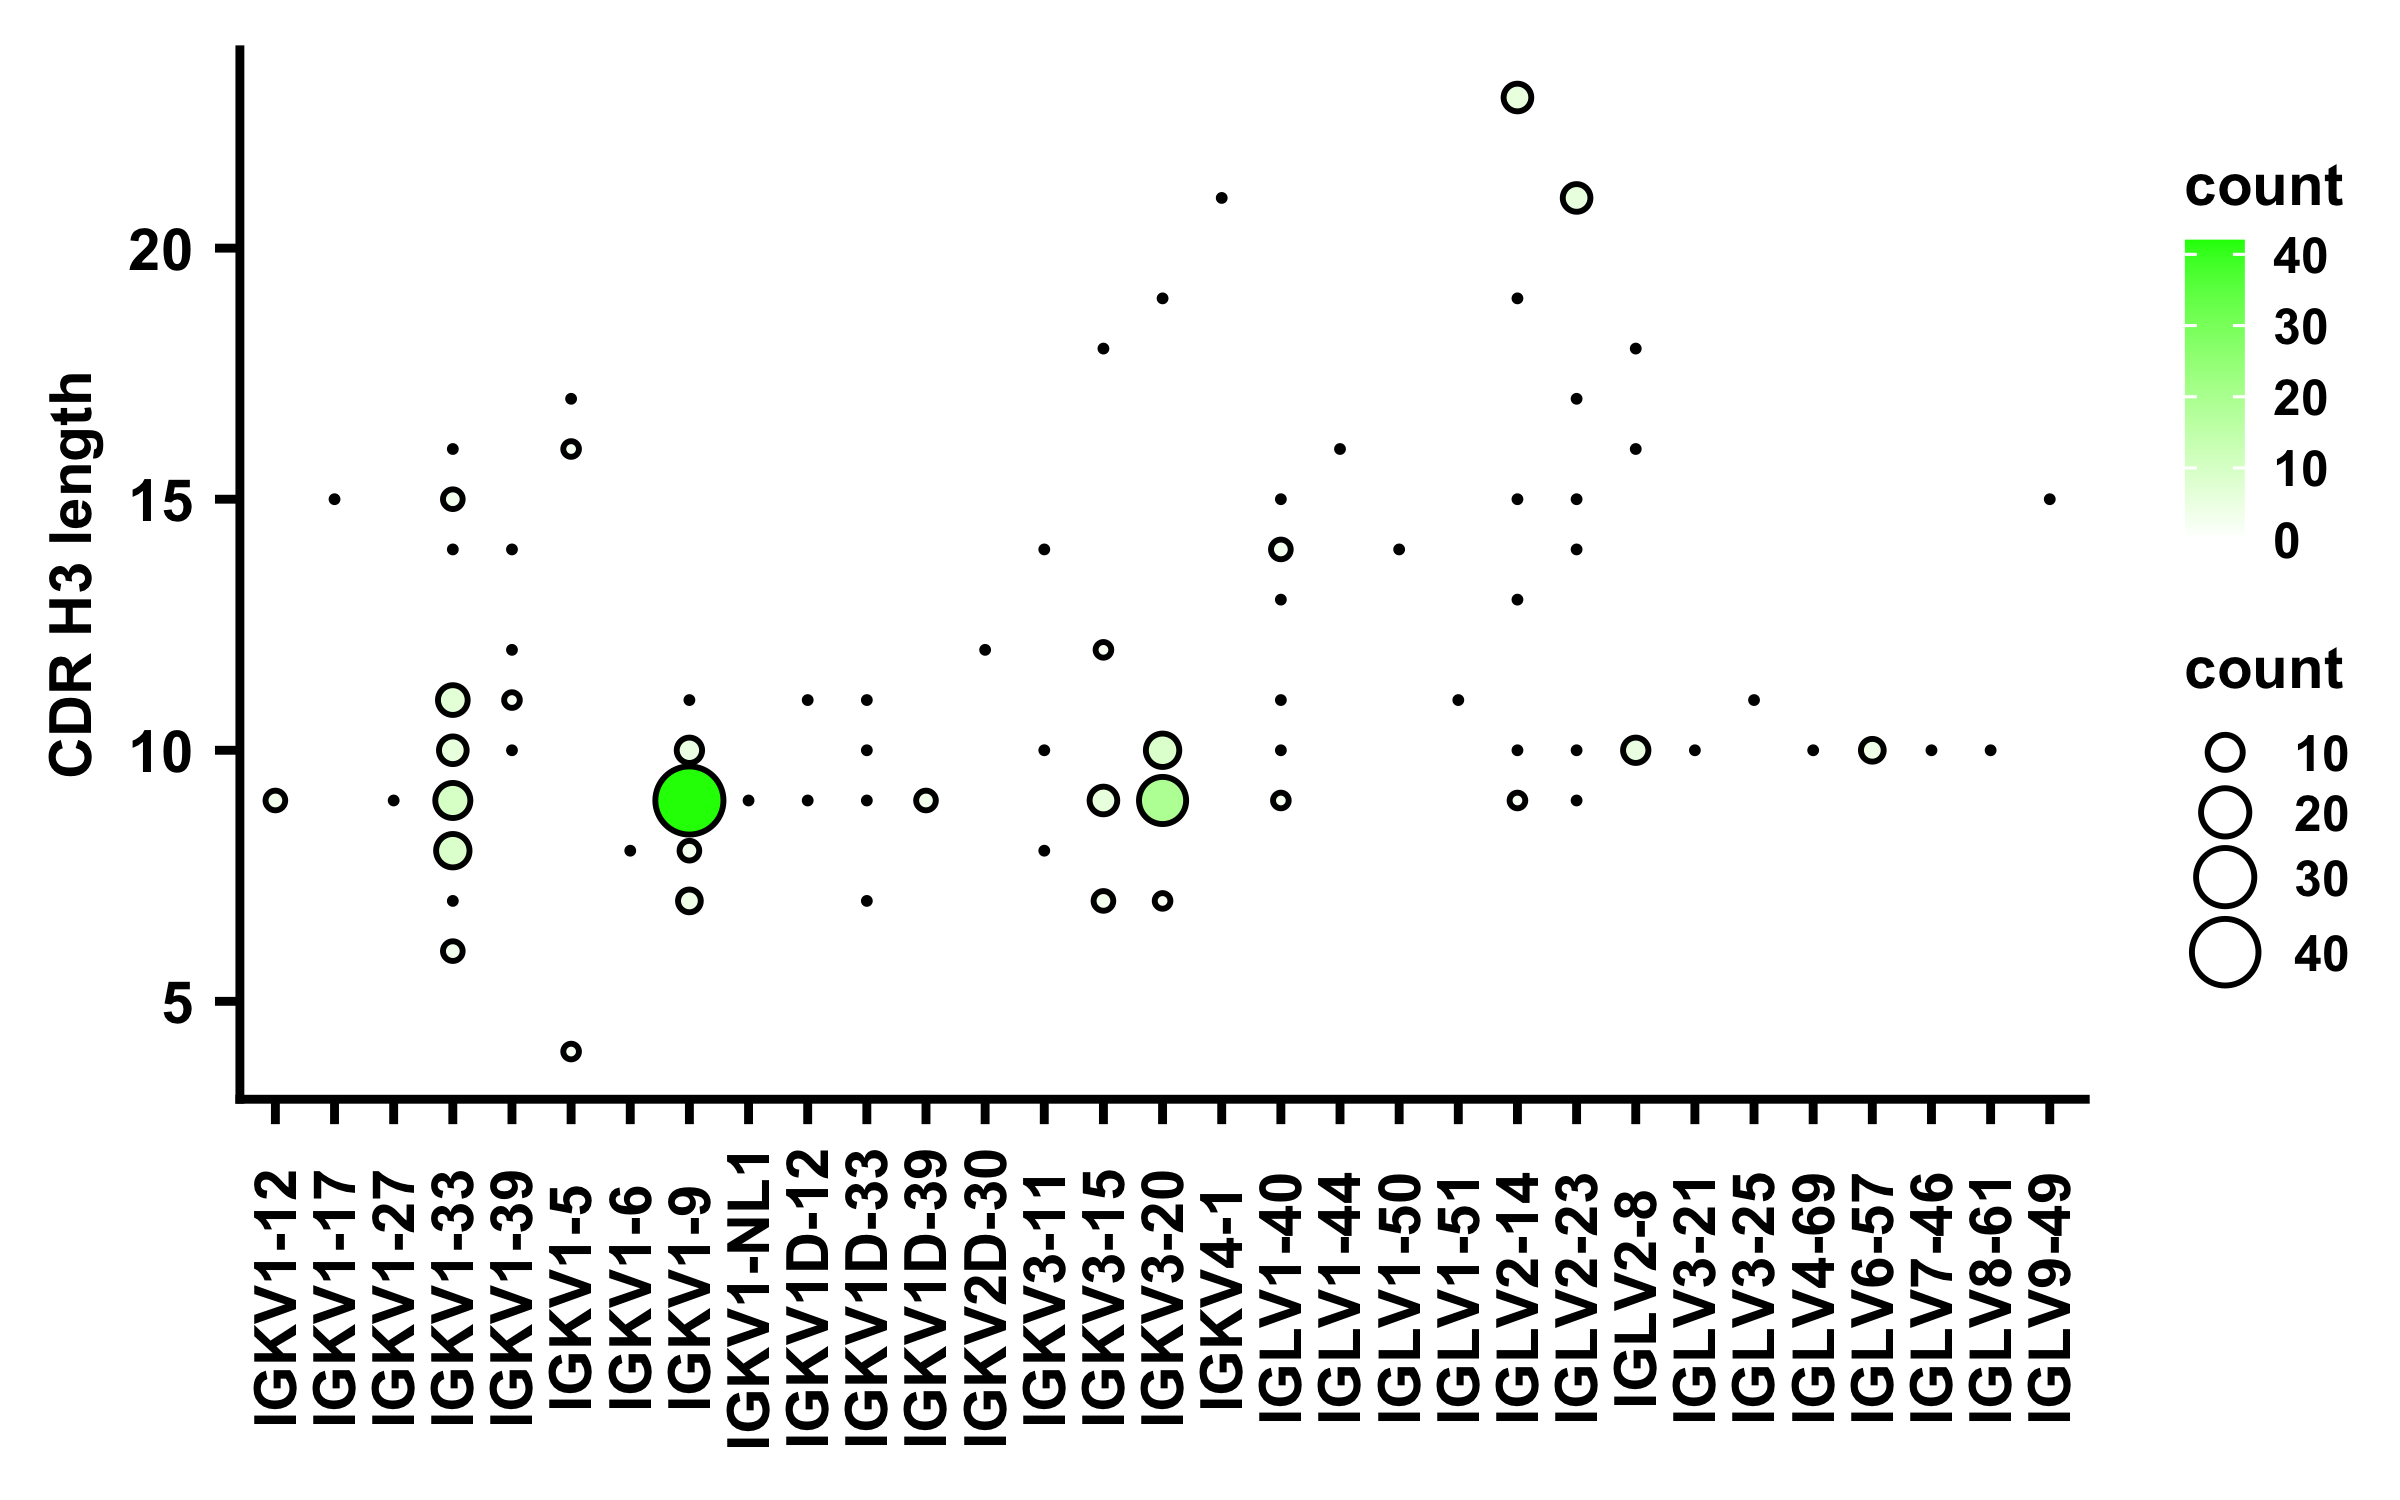
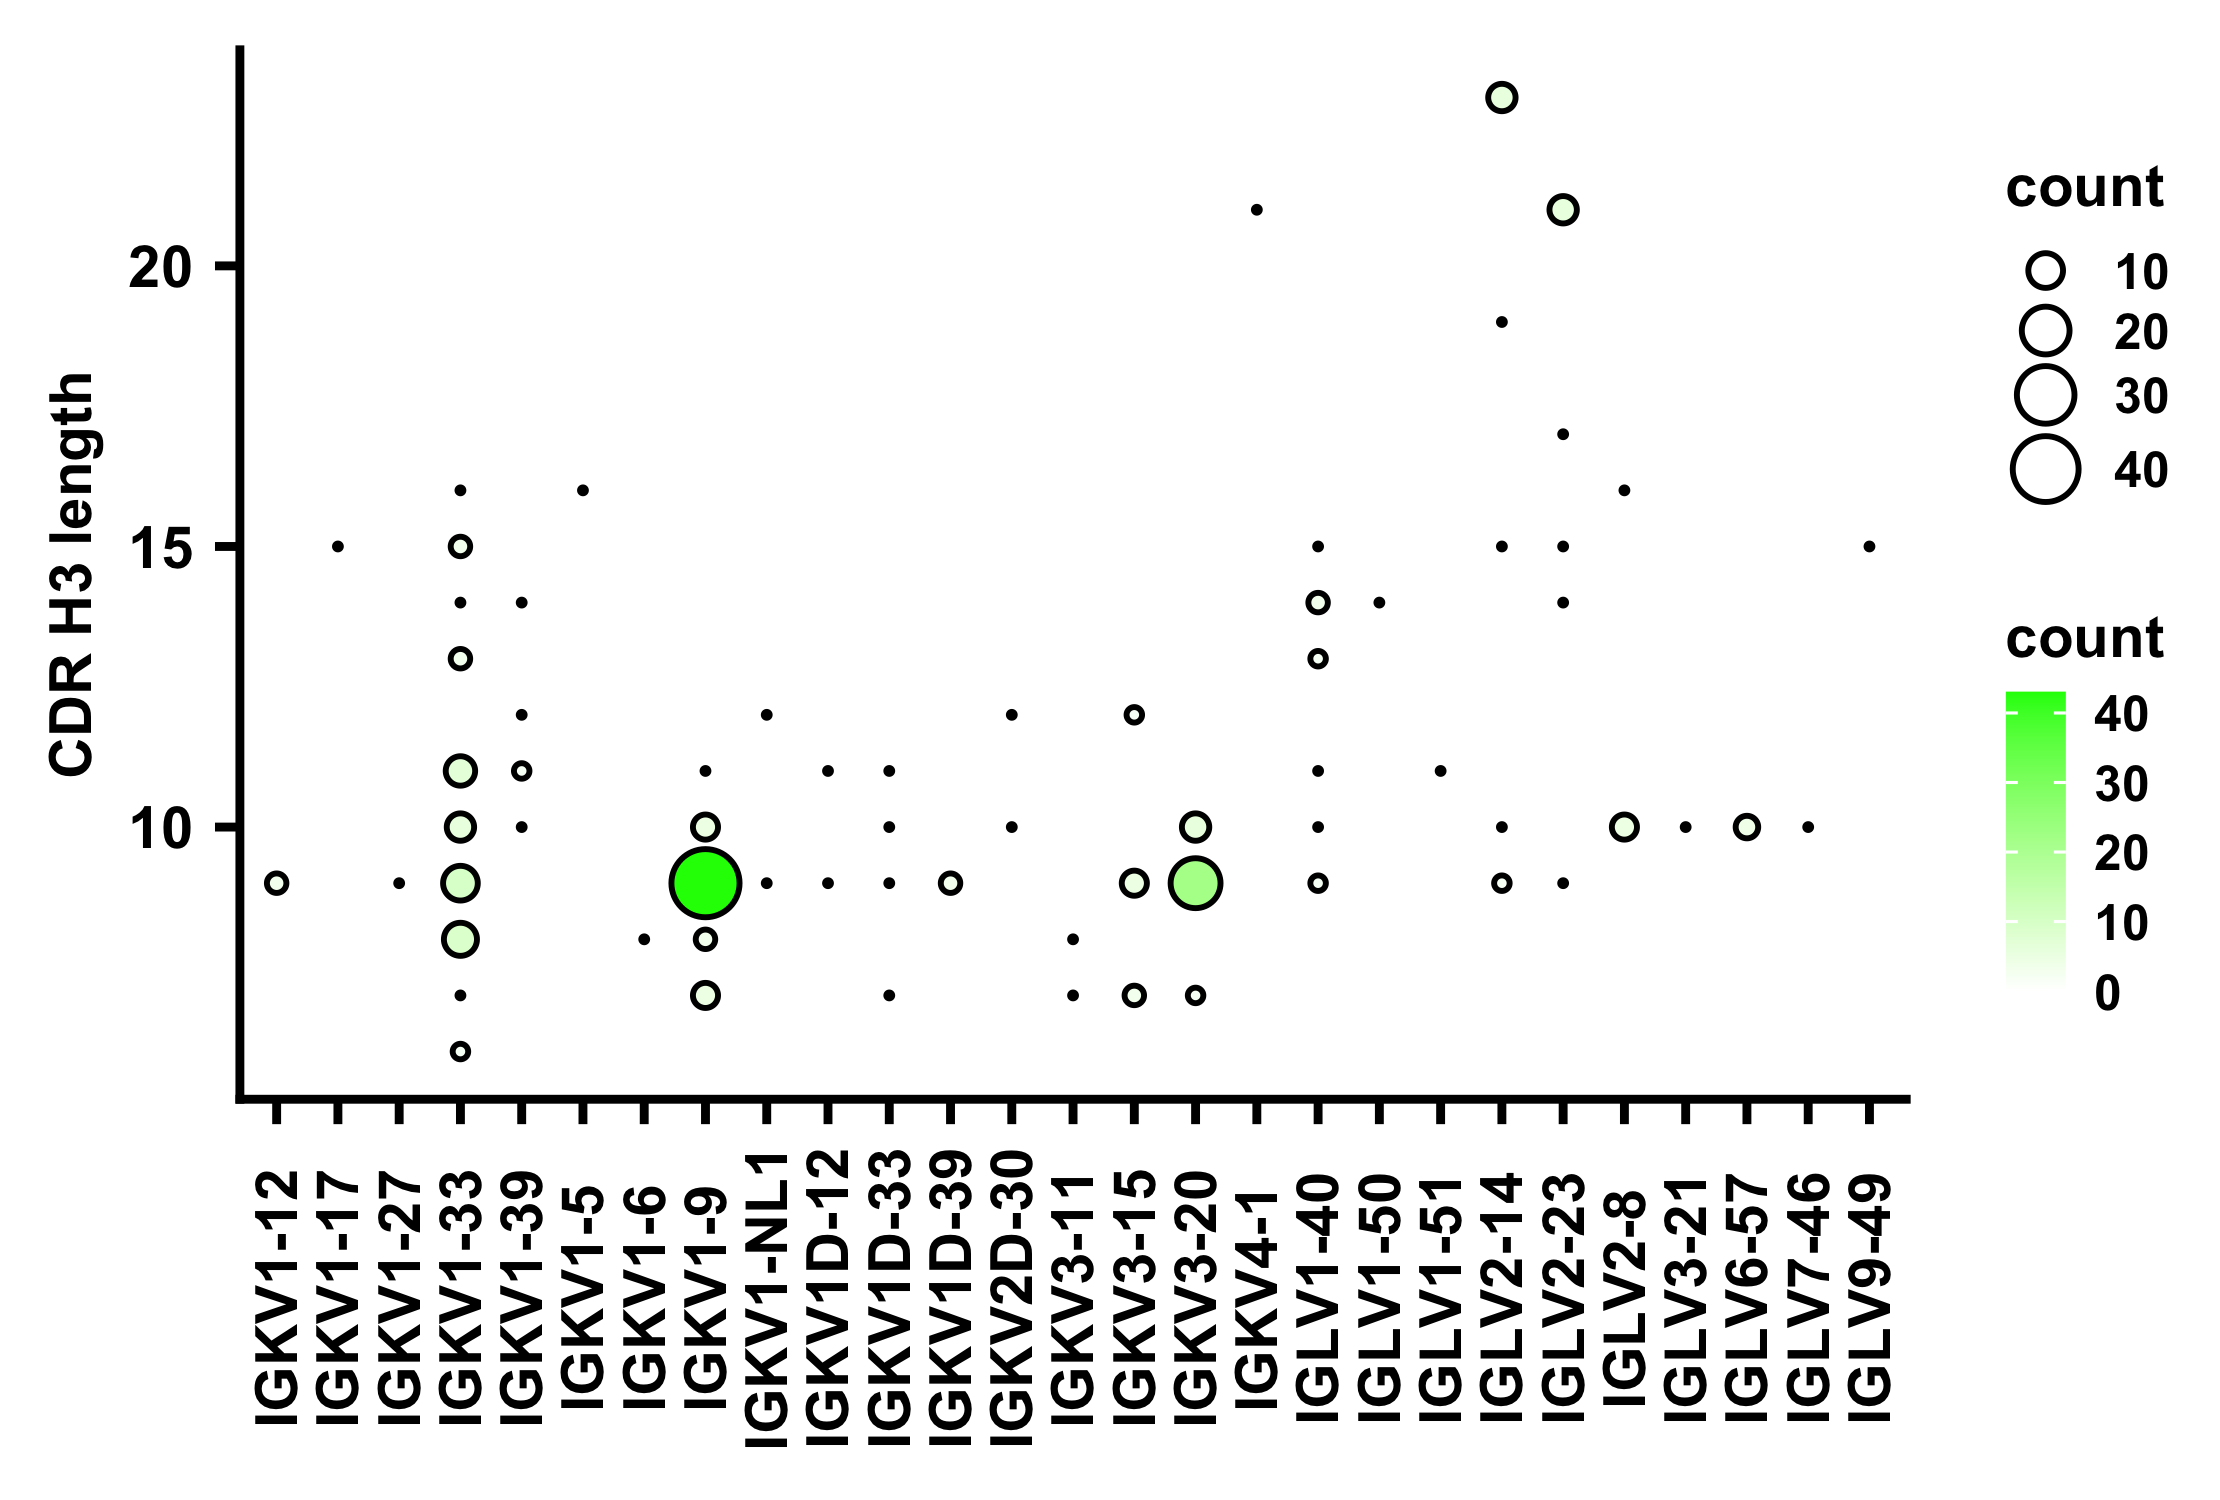
update CDRH3/LC pairing and SHM analyses

diff --git a/script/format_SHM_table.py b/script/format_SHM_table.py
@@ -1,0 +1,79 @@
+#!/usr/bin/python
+import os
+import sys
+
+def format_SHM(SHM_raw):
+  if 'none' in SHM_raw:
+    return []
+  else:
+    SHM_list = SHM_raw.rsplit(',')
+    SHM_new_list = []
+    for SHM in SHM_list:
+      SHM = SHM.replace(' ','')
+      if SHM[-2].isalpha():
+        SHM = SHM[0]+str(int(SHM[1:-2]))+SHM[-2].lower()+SHM[-1]
+      else:
+        SHM = SHM[0]+str(int(SHM[1:-1]))+SHM[-1]
+      SHM_new_list.append(SHM) 
+    return SHM_new_list
+
+def parse_SHM_file(filename):
+  infile = open(filename, 'r')
+  ab_info_dict = {}
+  for line in infile.readlines():
+    if 'Antibody' in line: continue
+    entry = line.rstrip().rsplit("\t")
+    Ab_name = entry[0]
+    HC_germline = entry[1]
+    SHM         = entry[2]
+    CDRH3 = entry[3]
+    LC_germline = entry[4].rsplit('*')[0]
+    if '-' in CDRH3:
+      continue
+    if 'sequence' in SHM: 
+      continue
+    if 'length' in CDRH3:
+      CDRH3_len = int(CDRH3.rsplit('=')[1])
+    else:
+      CDRH3_len = len(CDRH3)
+    SHM = format_SHM(SHM)
+    ab_info_dict[Ab_name] = {'LC':LC_germline, 
+                             'CDRH3_length':CDRH3_len,
+                             'SHM':SHM}
+  return ab_info_dict
+
+def SHM_positioning(SHM):
+  if SHM[-2].isalpha():
+    return int(SHM[1:-2])
+  else:
+    return int(SHM[1:-1])
+
+def output_heatmap_format(ab_info_dict, SHM_list, outfile):
+  print ("writing: %s" % outfile)
+  outfile = open(outfile,'w')
+  header  = ['Ab', 'LC',  'CDRH3_length']+SHM_list
+  outfile.write("\t".join(header)+"\n")
+  for Ab in ab_info_dict.keys():
+    LC           = ab_info_dict[Ab]['LC']
+    CDRH3_length = ab_info_dict[Ab]['CDRH3_length']
+    ab_SHMs      = ab_info_dict[Ab]['SHM']
+    out = [Ab, LC, CDRH3_length]
+    for SHM in SHM_list:
+      if SHM in ab_SHMs:
+        out.append(1) 
+      else:
+        out.append(0)
+    outfile.write("\t".join(map(str,out))+"\n")
+  outfile.close()
+
+def main():
+  filename = "data/VH3-53_RBD_antibodies.tsv"
+  outfile  = "result/AntibodyDataSM_heatmap.tsv"
+  ab_info_dict = parse_SHM_file(filename)  
+  SHM_list = []
+  [SHM_list.extend(ab_info_dict[ab]['SHM']) for ab in ab_info_dict.keys()]
+  SHM_list = sorted(list(set(SHM_list)), key=lambda x:SHM_positioning(x))
+  output_heatmap_format(ab_info_dict, SHM_list, outfile)
+
+if __name__ == "__main__":
+  main()

diff --git a/script/summarize_LC_vs_CDRH3_length.py b/script/summarize_LC_vs_CDRH3_length.py
@@ -10,15 +10,18 @@ def LC_vs_CDRH3_count(in_filename, HC_germlines):
 		else:
 			entry = line.rstrip().rsplit("\t")
 			HC_germline = entry[1]
-			CDRH3 = entry[2]
-			LC_germline = entry[3]
-			Antigen_target = entry[5]
-			if '-' in CDRH3 or 'length' in CDRH3:
+			CDRH3 = entry[3]
+			LC_germline = entry[4]
+			if HC_germline not in HC_germlines:
 				continue
-			elif HC_germline in HC_germlines:
-				CDRH3_len = len(CDRH3)-2
-				ID = LC_germline+'__'+str(CDRH3_len)
-				summary_dict[ID] += 1
+			if '-' in CDRH3:
+				continue
+			if 'length' in CDRH3:
+				CDRH3_len = int(CDRH3.rsplit('=')[1])
+			else:
+				CDRH3_len = len(CDRH3)
+			ID = LC_germline+'__'+str(CDRH3_len)
+			summary_dict[ID] += 1
 	infile.close()
 	return summary_dict
 
@@ -34,7 +37,7 @@ def write_output(summary_dict, out_filename):
 	outfile.close()
 
 def main():
-	in_filename = "data/SARS-CoV-2_Abs_v12.tsv"
+	in_filename = "data/VH3-53_RBD_antibodies.tsv"
 	out_filename = "result/LC_germline_vs_CDRH3_length.tsv"
 	HC_germlines = ['IGHV3-53', 'IGHV3-66']
 	summary_dict = LC_vs_CDRH3_count(in_filename, HC_germlines)
